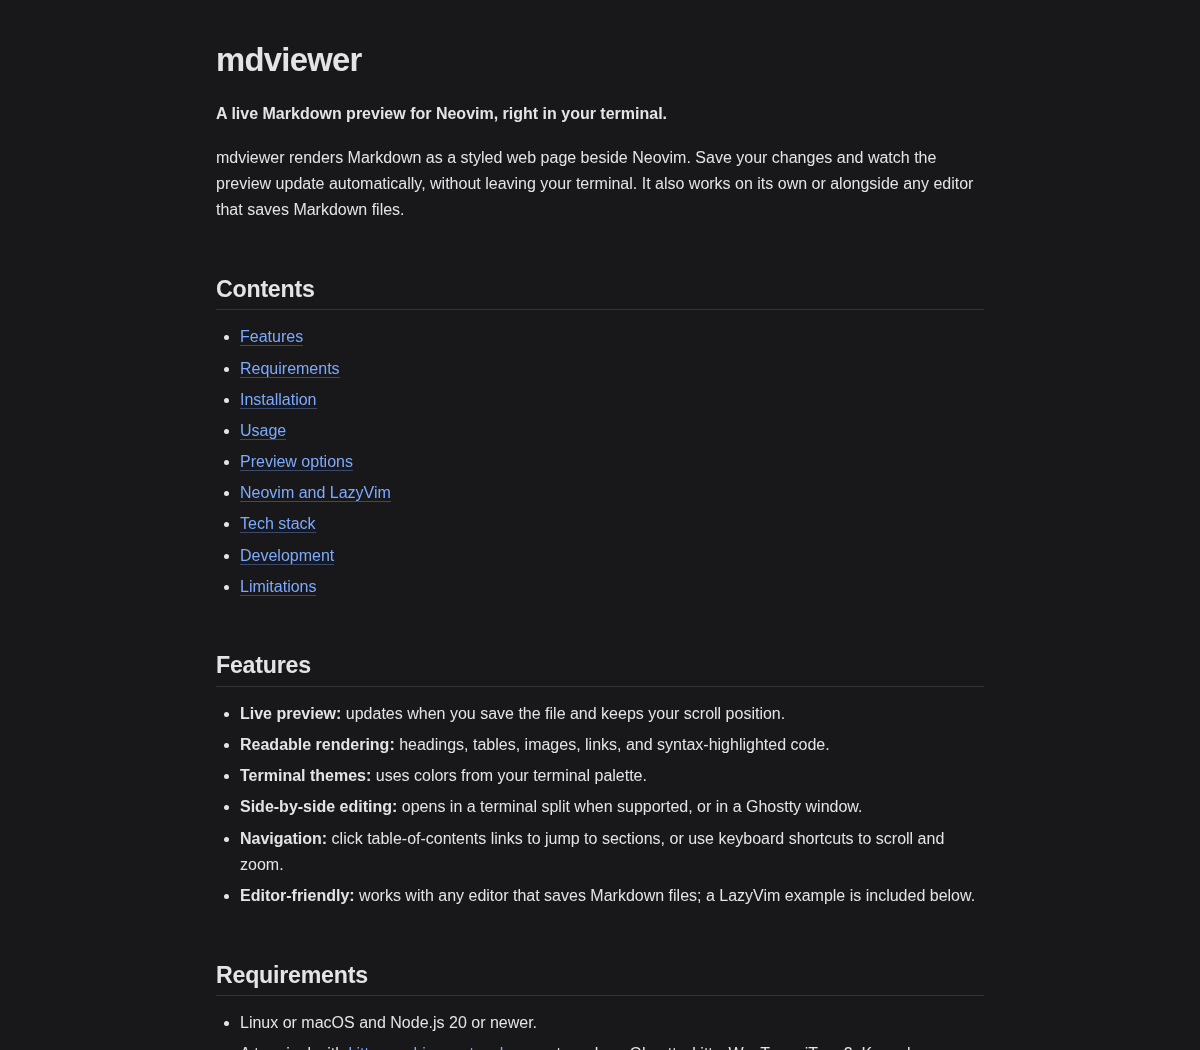
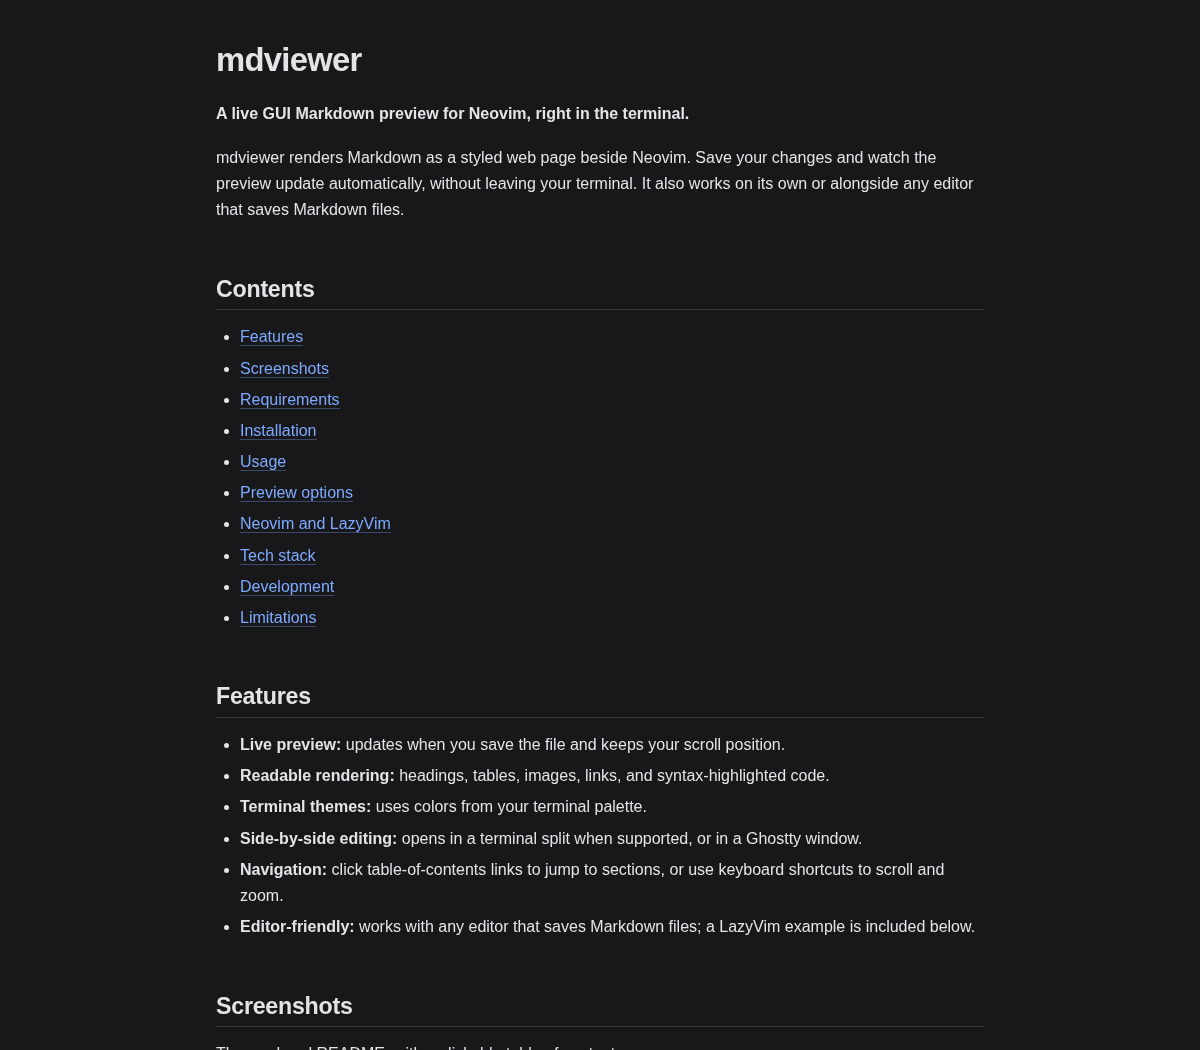
docs: highlight GUI preview in tagline

Changed region(s): [[0.185, 0.3352, 0.8017, 0.8838], [0.185, 0.9143, 0.4317, 1.0], [0.2158, 0.0914, 0.5858, 0.1219]]

diff --git a/README.md b/README.md
@@ -1,6 +1,6 @@
 # mdviewer
 
-**A live Markdown preview for Neovim, right in your terminal.**
+**A live GUI Markdown preview for Neovim, right in the terminal.**
 
 mdviewer renders Markdown as a styled web page beside Neovim. Save your changes and watch the preview update automatically, without leaving your terminal. It also works on its own or alongside any editor that saves Markdown files.
 
